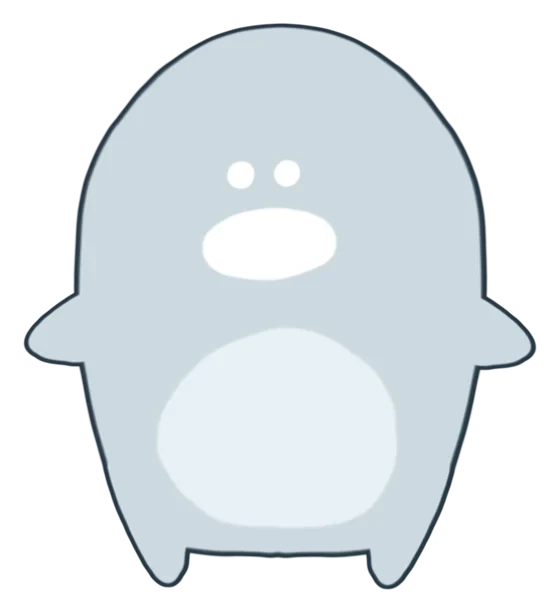
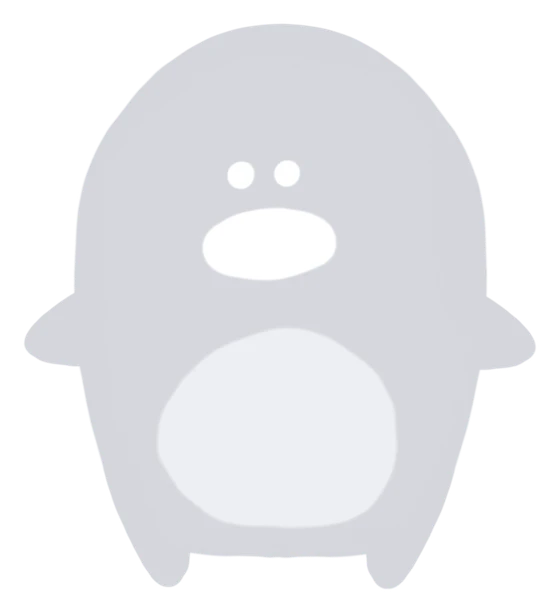
히어로 아이콘 타일 제거, 로슈를 앱 출시 버전으로 교체
- 히어로 아래 아이콘 세 개 삭제. 슈가캡 아이콘은 막이 덮인 뒤 가운데에서 솟는다
- 로슈: 외곽선 있는 구버전 대신 앱 Shared.xcassets/character-roshu

diff --git a/site/main.js b/site/main.js
@@ -54,7 +54,6 @@
   const imgs = {};
   $$('.ph, .panel').forEach((el) => { imgs[el.dataset.k] = el; });
   const col = $('[data-k="me-col"]');
-  const tiles = {}; $$('.tile').forEach((el) => { tiles[el.dataset.t] = el; });
   const chi = {}; $$('.chi').forEach((el) => { chi[el.dataset.i] = el; });
   const cups = {}; $$('.cup').forEach((el) => { cups[el.dataset.c] = el; });
   const chars = {}; $$('.ch').forEach((el) => { chars[el.dataset.ch] = el; });
@@ -103,15 +102,6 @@
     const sub = L.centerY + L.H + 28;
     place('hero-sub', L.m, sub);
     place('hero-list', L.m, sub + L.S * 1.18 + 20);
-    L.T = Math.min(clamp(0.075 * L.vh, 48, 76), (L.vw - 2 * L.m - 28) / (2 + 855 / 207));
-    const tileY = sub + L.S * 1.18 + 20 + 48;
-    L.tile = {};
-    let tx = L.m;
-    [['sugar', 1], ['tempo', 1], ['gim', 855 / 207]].forEach(([t, ar]) => {
-      const r = { x: tx, y: tileY, w: L.T * ar, h: L.T };
-      L.tile[t] = r; tx += r.w + 14;
-      const el = tiles[t]; el.style.left = r.x + 'px'; el.style.top = r.y + 'px'; el.style.width = r.w + 'px'; el.style.height = r.h + 'px';
-    });
     // 챕터 막: 아이콘은 가운데 제목 위
     L.C = Math.min(0.16 * L.vh, 150, 0.3 * L.vw);
 
@@ -374,24 +364,19 @@
   const scenes = [];
   const scene = (name, render) => scenes.push({ name, render });
 
-  // 히어로 3비트: 로드 즉시 완성 상태. 1.0부터 글과 타일 퇴장,
-  // 1.3~2.0 이름표가 화면 전체로 번지고, 슈가캡 타일이 그대로 날아가 챕터 막의 아이콘이 된다.
+  // 히어로 3비트: 로드 즉시 완성 상태. 1.0부터 글 퇴장,
+  // 1.3~2.0 이름표가 화면 전체로 번지고, 슈가캡 제목과 아이콘이 가운데에서 솟는다.
   scene('hero', (b, A) => {
     words('hero-sub', b, -1, 1.0);
     words('hero-list', b, -1, 1.1);
-    [['tempo', 1.05], ['gim', 1.13]].forEach(([t, t0]) => {
-      const v = ease.inCubic(prog(b, t0, t0 + 0.35));
-      tiles[t].style.transform = `translateY(${-v * 28}px)`;
-      tiles[t].style.opacity = (1 - v).toFixed(3);
-    });
-    tiles.sugar.style.opacity = b < 1.3 ? '1' : '0';
     if (!A) return;
     glyphsIn('name', b, -10, 1.15);
     const r = lerpR(plateR('name', L.centerY), fullR(), ease.inOutCubic(prog(b, 1.3, 2.0)));
     setBarR(r);
     glyphsIn('sugar', b, 1.8);
     centerBt('sugar', r);
-    if (b >= 1.3) icon('sugar', lerpR(L.tile.sugar, chRf('sugar'), ease.inOutCubic(prog(b, 1.3, 2.1))), 1);
+    const ic = ease.outExpo(prog(b, 1.8, 2.25));
+    if (ic > 0) icon('sugar', shrinkR(chRf('sugar'), 0.6 + 0.4 * ic), ic);
   });
 
   // 슈가캡 14비트

diff --git a/site/styles.css b/site/styles.css
@@ -77,8 +77,6 @@ img { display: block; max-width: 100%; height: auto; }
 .stage { position: sticky; top: 0; height: 100vh; overflow: hidden; pointer-events: none; }
 .stage a { pointer-events: auto; }
 
-.tile { position: absolute; left: 0; top: 0; border-radius: 22.5%; box-shadow: 0 0 0 1px rgba(10,10,10,0.1); transform-origin: 0 0; }
-.tile.wide { border-radius: 8px; }
 .cup, .ch, .ph3 { position: absolute; left: 0; top: 0; max-width: none; transform-origin: 0 0; opacity: 0; }
 .cup, .ch { will-change: transform, clip-path, opacity; }
 .ph3 { transform-origin: 50% 100%; border-radius: 6%; box-shadow: 0 0 0 1px rgba(10,10,10,0.1), 0 24px 60px -24px rgba(10,10,10,0.35); }
@@ -121,9 +119,7 @@ html.static .scene + .scene { margin-top: 0; }
 html.static .stage { position: static; height: auto; overflow: visible; pointer-events: auto; }
 html.static #bar, html.static #over, html.static .bl { display: none; }
 html.static .corner { color: var(--ink); mix-blend-mode: normal; }
-html.static .tile { position: static; display: inline-block; width: 64px; margin: 0 12px 0 0; }
-html.static .tile.wide { width: auto; height: 64px; }
-html.static .cup { display: none; }
+html.static html.static html.static .cup { display: none; }
 html.static .cup[data-c="100"] { display: block; position: static; opacity: 1; width: min(50vw, 260px); margin: 0 0 0.8em; }
 html.static .ch { position: static; display: inline-block; opacity: 1; width: 120px; margin: 0 16px 0.8em 0; }
 html.static .ph3 { position: static; display: inline-block; opacity: 1; width: min(28vw, 180px); margin: 0 12px 0.8em 0; }

diff --git a/site/index.html b/site/index.html
@@ -51,9 +51,6 @@
     <h1 class="static-h">한예원</h1>
     <p class="ln st" data-k="hero-sub">Portfolio</p>
     <p class="ln lb" data-k="hero-list">슈가캡 · 템포루틴 · 짐살라빔</p>
-    <img class="tile" data-t="sugar" src="assets/icon-sugarcap.webp" width="360" height="360" alt="슈가캡 앱 아이콘">
-    <img class="tile" data-t="tempo" src="assets/icon-tempo.webp" width="360" height="360" alt="템포루틴 앱 아이콘">
-    <img class="tile wide" data-t="gim" src="assets/gim-logo.webp" width="855" height="207" alt="짐살라빔 로고">
   </div>
 </section>
 
